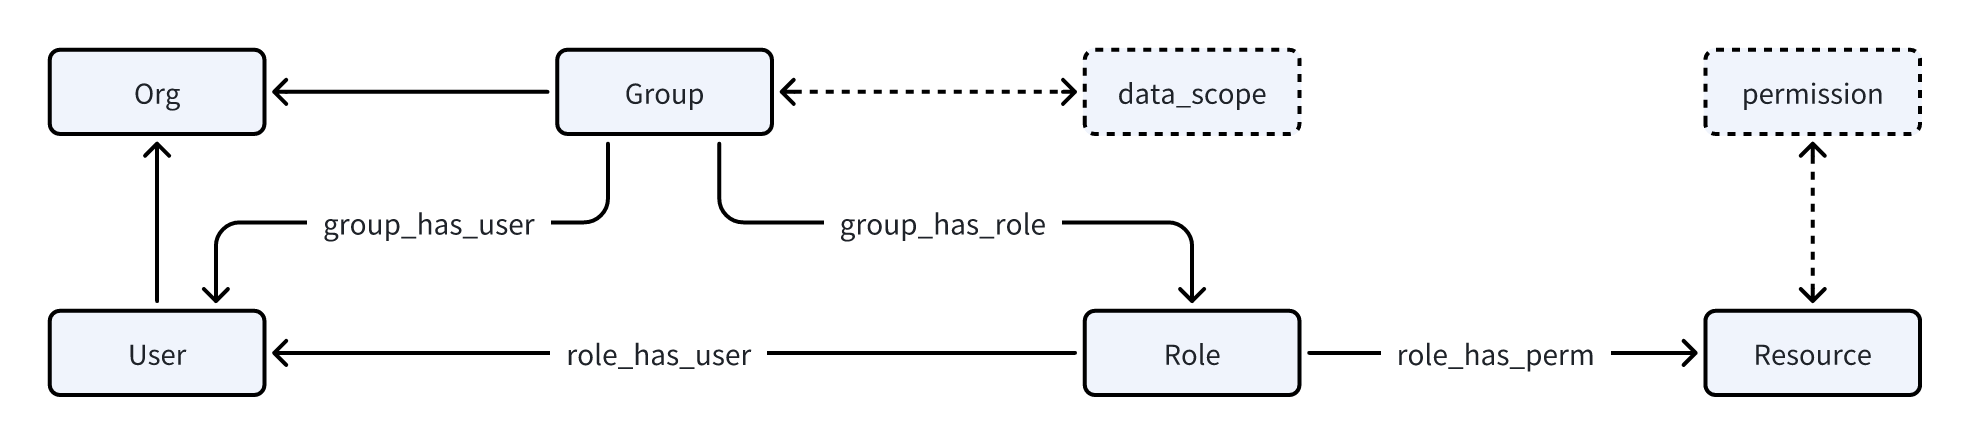
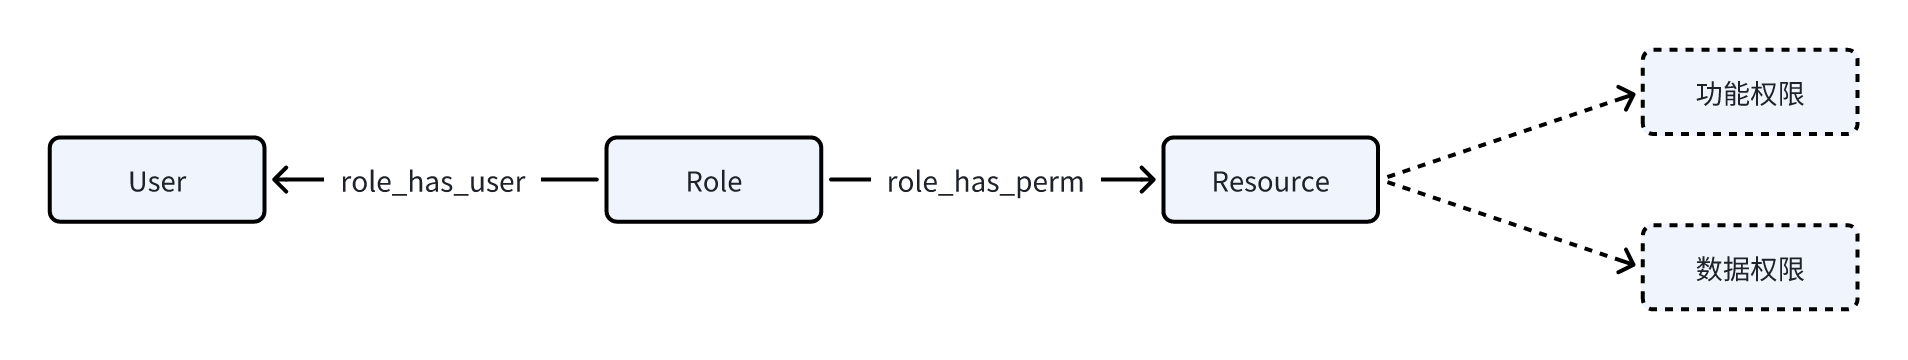
权限控制

diff --git a/src/moyu/1.功能介绍/3.权限控制.md b/src/moyu/1.功能介绍/3.权限控制.md
@@ -3,46 +3,72 @@ title: 权限控制
 order: 3
 ---
 
-## 权限控制基础
+## 权限控制
 权限控制即对资源的访问控制，根据资源种类的不同，权限可分为`功能权限`和`数据权限`。
 
-* 功能权限：在前面章节中`资源管理的基础上`进行控制，如菜单是否可见，按钮是否可点，接口是否有权限访问等
-* 数据权限：通过数据库进行控制，本系统在`组织机构的基础上`支持行级别的数据权限控制，本项目中数据权限分为：
-
-`本人数据`：仅可访问本人创建的数据记录。
-`本节点数据`：可以访问本节点(本公司、本部门)下直接包含的数据，但是不可递归访问本节点下子节点包含的数据，即不包括间接包含的数据。
-`本节点及以下`：可以访问本节点(本公司、本部门)下的所有数据，包括直接包含和间接包含的数据。
-`自定义`：可以自由指定能够访问哪些节点下直接包含的数据。
-
-本系统在基于角色的权限管理模型RBAC的基础上，引入了角色组(Group)的概念，形成了以Group为核心的权限管理体系，支持`一岗多角`和`一人多岗`。
-
-![权限控制体系图](/assets/img/rbac.png)
+* 功能权限：在`资源树`的基础上进行控制，如菜单页面是否可见，按钮是否可点等。
+* 数据权限：在接口内部进行数据范围控制，本系统在`组织树`的基础上支持本人、部门、公司等不同的数据范围控制。
 
 ## 角色管理
-角色是分配功能权限的载体，本系统中一个角色应该具有的权限相对固定，如仓库管理人员总是具有出库入库、库存盘点等相关的权限，企业管理人员总是具有组织管理、人员管理相关的权限，审计相关人员总是具有读权限而不具有写权限等。
-角色权限相对固定的好处也显而易见，不仅可以通过角色直观的判断应该具有哪些权限，还可以简化权限的分配管理工作。
+角色管理是基于角色的权限管理模型RBAC的系统实现。
+![权限控制体系图](/assets/img/rbac.png)
 
-### 角色分配权限
-角色分配权限即为角色添加功能权限，下图即`角色管理`中，为某角色分配权限的页面，直接勾选相应的菜单和按钮即可。
-![角色添加权限](/assets/img/role_perm.png)
+角色管理中，可以创建修改角色，对每个角色都可以进行`功能权限`配置、`数据权限`配置、为角色`分配用户`等操作。
+
+### 功能权限配置
+
+为某角色添加功能权限，直接勾选相应的菜单和按钮，然后提交即可。
+![功能权限配置](/assets/img/role_perm.png)
+
+
+### 数据权限配置
+为某角色添加数据权限，需要先配置好功能权限(按钮权限)，然后点开数据权限，直接选接口的数据范围，最后提交即可。
+![数据权限配置](/assets/img/role_scope.png)
+
+#### 数据范围说明
+接口的**数据范围**说明如下：
+* `本人数据`：仅可访问本人创建的数据记录。
+* `本节点数据`：可以访问本节点(本公司、本部门)下直接包含的数据，但无本节点的子节点包含的数据，即不包括间接包含的数据。
+* `本节点及以下`：可以访问本节点(本公司、本部门)下的所有数据，包括本节点下子节点包含的数据，即包括直接包含和间接包含的数据。
+* `本公司及以下`：常用于一堆子公司的集团型公司，与`本节点及以下`类似，区别是当本节点为部门时，可以通过组织树向上找到公司节点，包括此公司节点下的所有数据。
+可以访问本节点(本公司、本部门)下的所有数据，包括本节点下子节点包含的数据，即包括直接包含和间接包含的数据。
+* `自定义`：可以自由指定能够访问哪些节点下直接包含的数据，但数据查询效率较低。
+
 
 ### 角色分配用户
-角色分配权限即为角色添加用户，将角色赋予某个用户。
-虽然系统保留了直接将角色赋予某用户的途径，但本系统主要围绕`岗位(Group)`进行权限管理，数据权限也是通过`岗位(Group)`控制的，因此不应直接将角色分配给某个用户，否则无数据权限。(可根据需要禁用此功能)
+::: tip
+**角色直接关联用户，适用于组织机构简单、用户较少的简单场景。**
+组织机构复杂，用户较多的复杂场景，建议通过岗位管理来分配用户，从而达到权限控制的目的。
+:::
 
-![角色授权的用户列表](/assets/img/role_user.png)
+本系统允许一个用户拥有多个角色，因此推荐的做法是角色的权限固定，通过不同角色的组合来完成权限管理。
+角色权限相对固定的好处也显而易见，不仅可以通过角色直观的判断应该具有哪些权限，还可以简化权限的分配管理工作。
+
+为某角色分配用户，可直接在角色的用户列表页内点击添加或移除即可。
+
+![角色分配用户](/assets/img/role_user.png)
+
+### 特殊角色
+本系统内置了一些比较特殊的角色：
+* `默认角色(r_default)`: 默认所有人无需配置都直接拥有的角色，可以为此角色配置一些默认权限而无需分配用户。
+* `ROOT管理员(ROOT)`: 默认的超级管理员，无需配置权限而默认拥有所有权限，只需分配用户即可。
 
 ## 岗位权限
-本系统中`岗位(Group)`等同于`角色组`，是用来进行权限控制的核心概念，角色、数据权限、授权的用户均与`岗位(Group)`直接关联。
+本系统中`岗位(Group)`等同于`角色组`的概念。
 
-### 岗位的数据权限
-在创建岗位时，可直接设置此岗位关联的数据权限
-![岗位的数据权限](/assets/img/group.png)
+本系统在基于角色的权限管理模型RBAC的基础上，引入了角色组的概念，支持完善的RBAC96模型族，形成了以岗位为核心的权限管理体系，支持`一岗多角`和`一人多岗`。
+
+![权限控制体系图](/assets/img/rbac96.png)
+
+在`岗位权限`菜单中，可以创建及维护岗位，包括`分配角色`和`分配用户`等
 
 ### 岗位分配角色
-岗位分配角色后，岗位即拥有了此角色下的所有功能权限，同时一个岗位可以分配多个角色，即支持`一岗多角`
+岗位分配角色后，岗位即拥有了此角色的所有权限，同时一个岗位可以分配多个角色，即支持`一岗多角`。
 
 ### 岗位分配用户
-岗位分配用户后，此用户即拥有与此岗位相关联的所有权限，包括`功能权限`和`数据权限`。
+岗位分配用户后，此用户即拥有与此岗位相关联的所有角色带来的权限，包括`功能权限`和`数据权限`。
 
-一个用户可以被分配多个岗位，即支持`一人多岗`，用户登录后可以通过`岗位切换`功能实现不同岗位身份的变化，切换岗位后对应的`功能权限`和`数据权限`也随着变化
+一个用户可以被分配多个岗位，即支持`一人多岗`，用户可在右上角头像处通过`岗位切换`功能实现不同岗位的切换，切换岗位后的权限也随着变化(变为新岗位直接关联的所有角色权限)。
+
+### 特殊岗位
+如果一个用户没有任何岗位，则为`系统默认`岗位，即此岗位拥有用户直接关联的所有的角色权限，包括`默认角色(r_default)`的权限。如：用户A未直接关联任何角色，也没有关联任何岗位，则A属于`系统默认`岗位，拥有`默认角色(r_default)`的所有权限。
